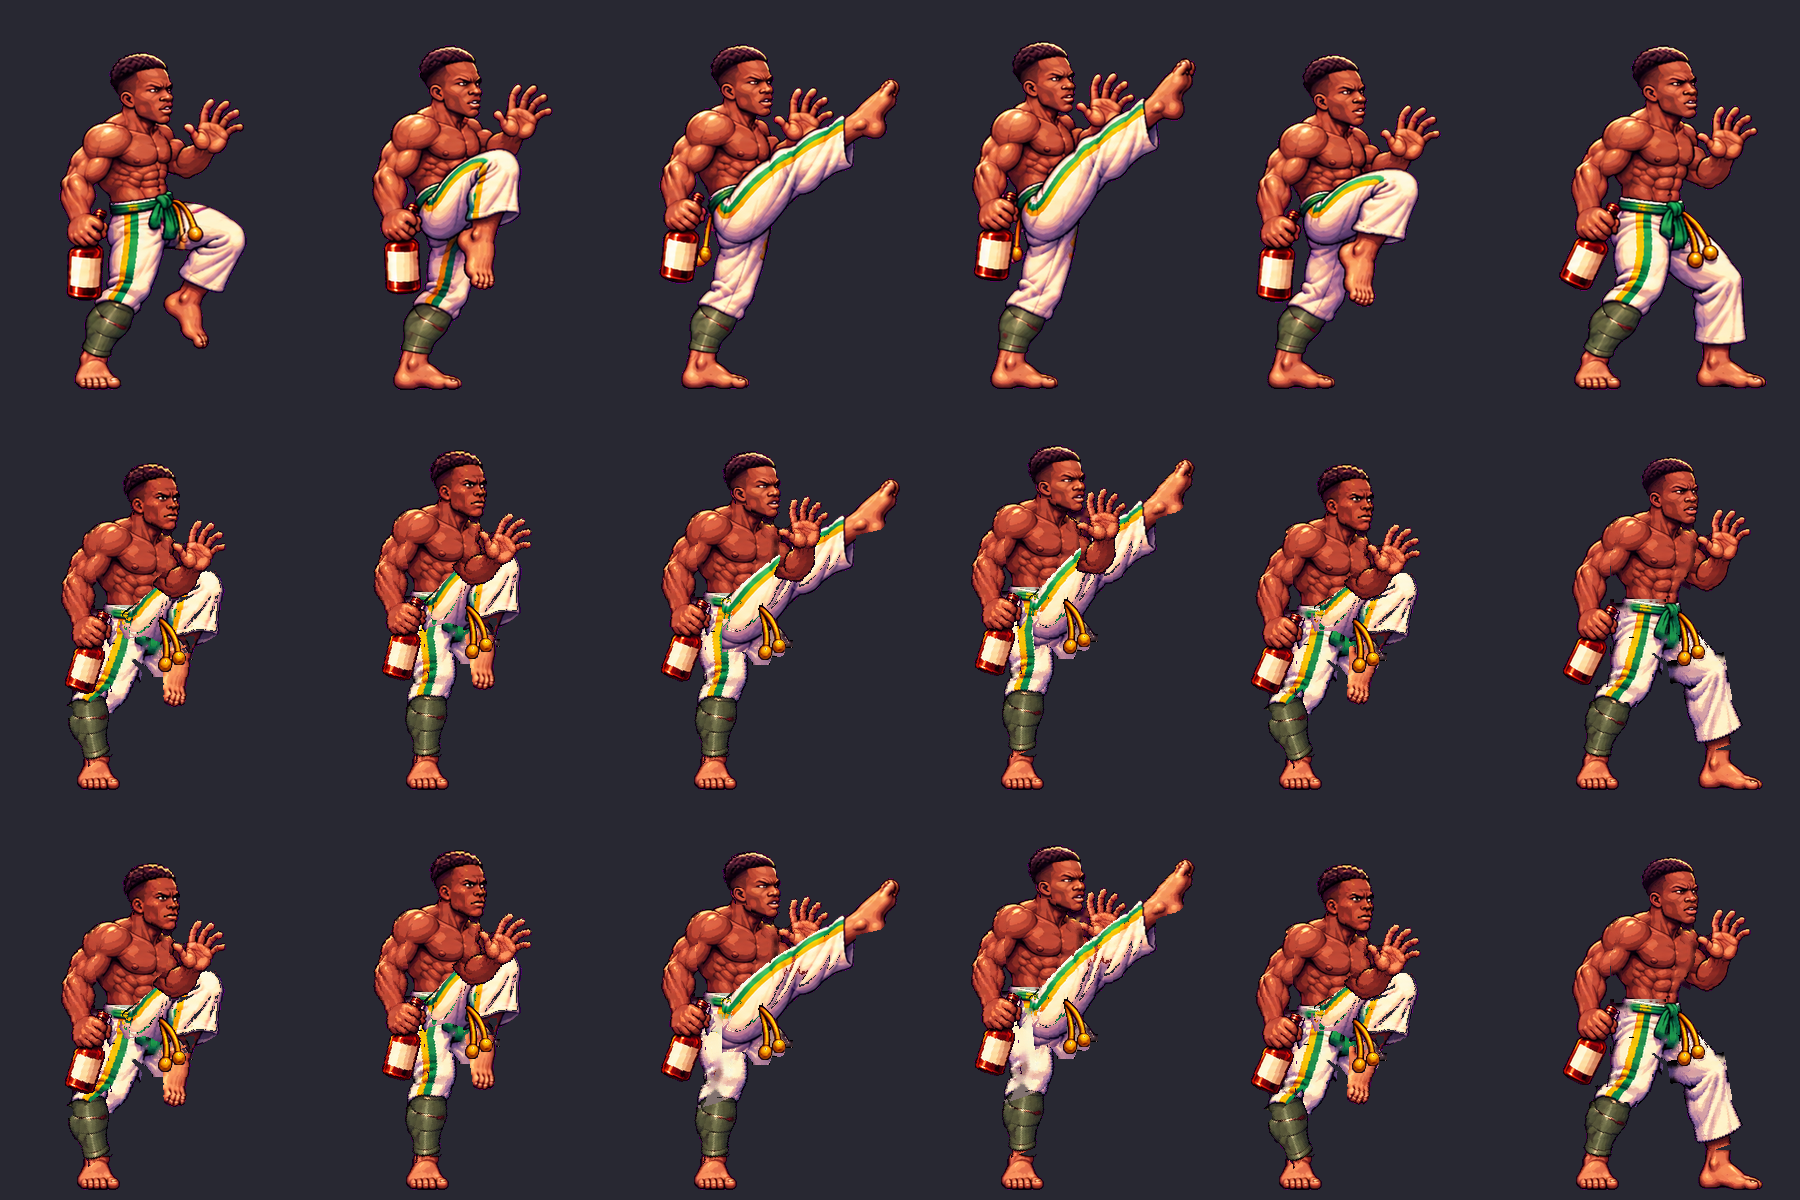
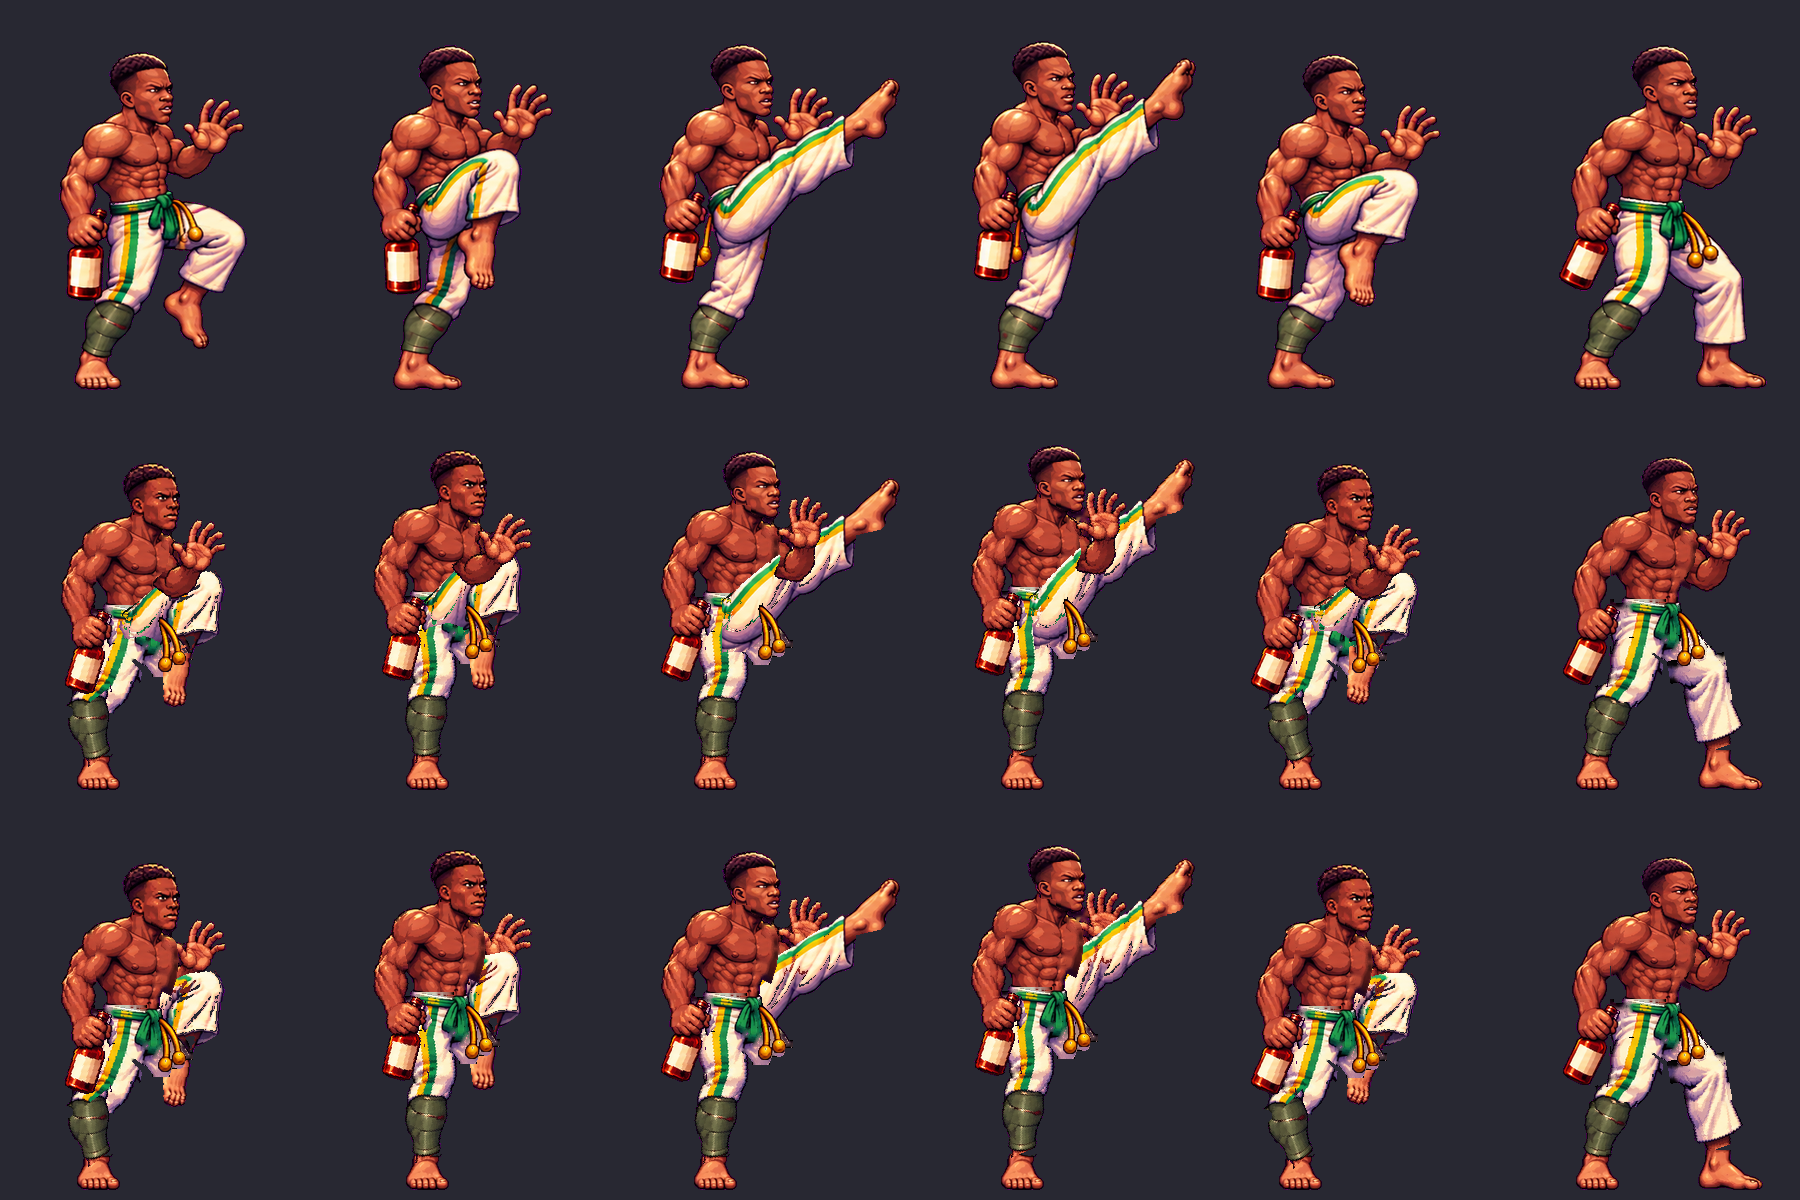
Chute alto no montador pelo estudo de anatomia: perna da frente e mão da frente atrás do corpo (sem repintar a listra da perna de apoio)
Claude-Session: https://claude.ai/code/session_01Q1NhBdcB9PL6LWneanSifC

diff --git a/docs/montador.md b/docs/montador.md
@@ -51,8 +51,10 @@ O montador lê `OSSOS`, `CAMADAS` e a função de desenho de cada lutador na cla
 
 ## Primeiro uso: chute alto do Pengaró (2026-11-17)
 
-`sprites/pengaro/montador/chute_alto.json`, gravado em `quadros_montador_hd/chute_alto/`. Correção pedida pelo Breno:
-nas duas poses de perna esticada a mão da frente ficava solta na frente da perna (foi para trás do corpo) e a perna de
-apoio tinha a mesma listra verde e amarela da perna que chuta, parecendo duas pernas direitas (a listra saiu da coxa de
-trás e do quadril abaixo da faixa, como no desenho original). Antes e depois: original, piloto e consertado em
+`sprites/pengaro/montador/chute_alto.json`, gravado em `quadros_montador_hd/chute_alto/`. Correção pedida pelo Breno
+("duas pernas direitas" e mão solta), feita pela Parte 2 do [`estudo-anatomia-golpes.md`](estudo-anatomia-golpes.md):
+nas poses de perna levantada, a perna da frente (calça branca, lado longe) foi para **atrás do corpo**, então ela nasce
+atrás da faixa e do tronco e não parece sair do quadril da perna de apoio; o braço da frente também foi para trás do
+corpo e não tapa mais o chute. Nenhum pixel foi repintado (uma primeira tentativa tirava a listra da perna de apoio, mas
+a listra é dela e o erro era de camada). Antes e depois (original, piloto, consertado):
 `docs/boneco-pecas/montador_chute_antes_depois.png`.
